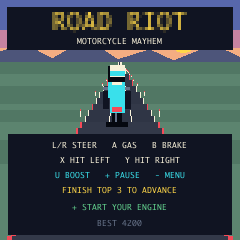
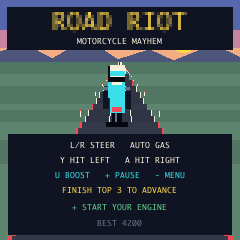
Enable automatic acceleration and map punches to Y and A

Changed region(s): [[0.2042, 0.5833, 0.7875, 0.7], [0.2333, 0.6417, 0.2917, 0.7]]

diff --git a/docs/games/road-riot.html b/docs/games/road-riot.html
@@ -25,22 +25,22 @@
         <div class="detail-panel prose">
           <p class="kicker">Controls</p>
           <table class="controls"><thead><tr><th>Input</th><th>Action</th></tr></thead><tbody>
-            <tr><td>L / R</td><td>Steer</td></tr><tr><td>A</td><td>Hold to accelerate</td></tr>
-            <tr><td>B or D</td><td>Brake</td></tr><tr><td>X</td><td>Strike left</td></tr><tr><td>Y</td><td>Strike right</td></tr>
-            <tr><td>U + A</td><td>Boost while accelerating</td></tr><tr><td>+</td><td>Start, pause, resume or continue</td></tr>
+            <tr><td>L / R</td><td>Steer left / right</td></tr><tr><td>Automatic</td><td>Accelerate without holding a button</td></tr>
+            <tr><td>B or D</td><td>Brake; release to accelerate again</td></tr><tr><td>Y</td><td>Strike left</td></tr><tr><td>A</td><td>Strike right</td></tr>
+            <tr><td>U</td><td>Boost</td></tr><tr><td>+</td><td>Start, pause, resume or continue</td></tr>
             <tr><td>−</td><td>Return to the arcade</td></tr>
           </tbody></table>
         </div>
         <div class="detail-panel prose">
           <p class="kicker">Race and survive</p>
           <ul class="feature-list"><li>Finish in the top three of six to advance. Complete Sunset Strip, Canyon Run and Midnight Coast to win the tour.</li>
-            <li>The three-second countdown gives you time to find the accelerator.</li><li>Cars, oil, collisions and rival punches damage your bike. Riding on the verge slows you down and wears it out.</li>
+            <li>The bike accelerates automatically after the three-second countdown, leaving you free to steer and punch.</li><li>Cars, oil, collisions and rival punches damage your bike. Riding on the verge slows you down and wears it out.</li>
             <li>A crash briefly protects you from further hits. Rivals flash a yellow exclamation mark before attacking.</li>
             <li>The four controller LEDs show bike condition. The HUD tracks position, speed, distance, condition, boost and knockouts.</li></ul>
         </div>
         <div class="detail-panel prose">
           <p class="kicker">Fight for a gap</p>
-          <ul class="feature-list"><li>Get alongside a rival and tap X or Y on their side. Release and tap again for another punch; holding does not auto-attack.</li>
+          <ul class="feature-list"><li>Get alongside a rival and tap Y to strike left or A to strike right. Release and tap again for another punch; holding does not auto-attack.</li>
             <li>Two hits knock a rider down temporarily. Each hit earns 75 points; a knockout adds another 225 and restores 30 boost.</li>
             <li>Close traffic passes earn 40 points. Your finishing position and remaining bike condition add a finish bonus.</li>
             <li>Boost recharges when idle. After emptying the tank, release U before boosting again.</li>
@@ -51,7 +51,7 @@
     <section class="section">
       <div class="section-heading"><div><p class="kicker">The tour</p><h2>From sunset to midnight</h2></div><p>Original procedural graphics; no sprites, ROMs or other external game assets required. These previews use the game's actual drawing functions with a host font substitute.</p></div>
       <div class="game-grid">
-        <article class="card"><img class="card-image" src="../images/road-riot-title.png" alt="Road Riot title screen and control guide"><div class="card-body"><h3>Start your engine</h3><p>Hold A after the countdown and use the whole road to find a way through.</p></div></article>
+        <article class="card"><img class="card-image" src="../images/road-riot-title.png" alt="Road Riot title screen and control guide"><div class="card-body"><h3>Start your engine</h3><p>Accelerate automatically after the countdown and use the whole road to find a way through.</p></div></article>
         <article class="card"><img class="card-image" src="../images/road-riot-course-2.png" alt="Canyon Run with desert colours"><div class="card-body"><h3>Canyon Run</h3><p>A longer desert stage with quicker rivals.</p></div></article>
         <article class="card"><img class="card-image" src="../images/road-riot-course-3.png" alt="Midnight Coast with a moonlit sky"><div class="card-body"><h3>Midnight Coast</h3><p>The longest, fastest race ends the tour under the moon.</p></div></article>
         <article class="card"><img class="card-image" src="../images/road-riot-finish.png" alt="Road Riot tour completion and score screen"><div class="card-body"><h3>Claim your result</h3><p>Your finishing place, knockouts and bike condition contribute to a lasting high score.</p></div></article>

diff --git a/tools/check_road_riot.py b/tools/check_road_riot.py
@@ -101,33 +101,43 @@ class GameplayChecks(unittest.TestCase):
     def test_countdown_freezes_the_entire_race(self):
         self.race["countdown"] = 3
         positions = [r["z"] for r in self.race["rivals"]]
-        self.step(2, Controls("A", "U"))
+        self.step(2, Controls("U"))
         self.assertEqual(self.race["distance"], 0)
         self.assertEqual(positions, [r["z"] for r in self.race["rivals"]])
         self.assertEqual(self.race["boost"], 100)
 
-    def test_acceleration_brake_and_no_throttle(self):
+    def test_automatic_acceleration_brake_and_recovery(self):
         self.race["rivals"] = []
         self.race["traffic"] = []
-        self.step(2, Controls("A"))
+        self.step(2)
         speed = self.race["speed"]
         self.assertGreater(speed, 40)
-        self.step(0.4, Controls("B", "A", "U"))
+        self.step(0.4, Controls("B", "U"))
         self.assertLess(self.race["speed"], speed - 20)
         self.assertFalse(self.race["boosting"])
-        self.race["speed"] = 0
-        self.step(0.4, Controls("U"))
+        self.step(1, Controls("B"))
         self.assertEqual(self.race["speed"], 0)
+        self.step(1)
+        self.assertGreater(self.race["speed"], 20)
 
     def test_steering_and_road_verge_cost(self):
         self.race["rivals"] = []
         self.race["traffic"] = []
-        self.step(2, Controls("L", "A"))
+        self.step(2, Controls("L"))
         self.assertLess(self.race["x"], -0.98)
         self.assertLess(self.race["health"], 100)
         self.assertLessEqual(abs(self.race["x"]), 1.35)
-        self.step(1, Controls("R", "A"))
+        self.step(1, Controls("R"))
         self.assertGreater(self.race["x"], -0.98)
+
+    def test_punch_buttons_do_not_also_steer(self):
+        self.race["rivals"] = []
+        self.race["traffic"] = []
+        self.game.update_race(self.race, Controls("Y", "A"), self.audio, 0.02)
+        self.assertEqual(self.race["x"], 0)
+        self.assertGreater(self.race["speed"], 0)
+        self.game.update_race(self.race, Controls("R"), self.audio, 0.02)
+        self.assertGreater(self.race["x"], 0)
 
     def test_attack_side_cooldown_and_knockout(self):
         rival = self.race["rivals"][0]
@@ -155,7 +165,7 @@ class GameplayChecks(unittest.TestCase):
         self.assertLess(self.race["speed"], 30)
         self.race["rivals"] = []
         self.race["traffic"] = []
-        self.step(1.6, Controls("A"))
+        self.step(1.6)
         self.assertEqual(self.race["crash"], 0)
         self.assertEqual(self.race["invulnerable"], 0)
         self.assertGreater(self.race["speed"], 30)
@@ -166,7 +176,7 @@ class GameplayChecks(unittest.TestCase):
         car = self.game.new_traffic(3.1, 0)
         car.update(x=0, speed=0)
         self.race["traffic"] = [car]
-        self.game.update_race(self.race, Controls("A", "U"), self.audio, 0.1)
+        self.game.update_race(self.race, Controls("U"), self.audio, 0.1)
         self.assertEqual(self.race["health"], 76)
 
     def test_near_miss_scores_once_and_traffic_recycles_ahead(self):
@@ -175,7 +185,7 @@ class GameplayChecks(unittest.TestCase):
         car.update(x=0.4, speed=0)
         self.race["traffic"] = [car]
         self.race["speed"] = 60
-        self.step(1, Controls("A"))
+        self.step(1)
         self.assertEqual(self.race["score"], 40)
         self.assertGreater(car["z"], self.race["distance"] + 200)
 
@@ -196,12 +206,12 @@ class GameplayChecks(unittest.TestCase):
         self.race["traffic"] = []
         self.race["boost"] = 1
         self.race["speed"] = 62
-        self.step(0.2, Controls("A", "U"))
+        self.step(0.2, Controls("U"))
         self.assertFalse(self.race["boosting"])
         self.assertFalse(self.race["boost_ready"])
         self.assertGreater(self.race["boost"], 0)
-        self.step(0.2, Controls("A"))
-        self.step(0.02, Controls("A", "U"))
+        self.step(0.2)
+        self.step(0.02, Controls("U"))
         self.assertTrue(self.race["boosting"])
 
     def test_qualification_failure_wreck_and_finished_race_freeze(self):
@@ -210,10 +220,10 @@ class GameplayChecks(unittest.TestCase):
             race.update(countdown=0, distance=race["length"] - 0.1, speed=60)
             for index, rival in enumerate(race["rivals"]):
                 rival["z"] = race["length"] + 30 if index < position - 1 else 0
-            self.game.update_race(race, Controls("A"), self.audio, 0.02)
+            self.game.update_race(race, Controls(), self.audio, 0.02)
             self.assertEqual(race["result"], expected)
             score = race["score"]
-            self.game.update_race(race, Controls("A"), self.audio, 0.02)
+            self.game.update_race(race, Controls(), self.audio, 0.02)
             self.assertEqual(race["score"], score)
         self.race["health"] = 0
         self.step(0.02)
@@ -255,7 +265,7 @@ class GameplayChecks(unittest.TestCase):
                           if -8 < car["z"] - self.race["distance"] < 55]
                 target = min(options, key=lambda x: abs(x - self.race["x"]) * 0.1 +
                              sum(max(0, 0.48 - abs(x - car["x"])) * 10 for car in danger))
-                keys = ["A"]
+                keys = []
                 if self.race["clock"] % 6 < 3:
                     keys.append("U")
                 if abs(target - self.race["x"]) > 0.04:

diff --git a/road_riot.py b/road_riot.py
@@ -277,13 +277,12 @@ def update_race(race, controls, audio, dt):
     for key in ("attack", "invulnerable", "crash", "message_time"):
         race[key] = max(0, race[key] - dt)
     top_speed = 62 + race["stage"] * 3
-    throttle = controls.held("A")
     brake = controls.held("B") or controls.held("D")
     if not controls.held("U"):
         race["boost_ready"] = True
     if race["boost"] <= 0:
         race["boost_ready"] = False
-    boosting = (controls.held("U") and throttle and not brake
+    boosting = (controls.held("U") and not brake
                 and race["boost"] > 0 and race["boost_ready"]
                 and race["crash"] <= 0)
     race["boosting"] = boosting
@@ -293,10 +292,8 @@ def update_race(race, controls, audio, dt):
         race["speed"] = max(0, race["speed"] - 45 * dt)
     elif brake:
         race["speed"] = max(0, race["speed"] - 65 * dt)
-    elif throttle:
-        race["speed"] = min(target_speed, race["speed"] + 27 * dt)
     else:
-        race["speed"] = max(0, race["speed"] - 14 * dt)
+        race["speed"] = min(target_speed, race["speed"] + 27 * dt)
     steering = int(controls.held("R")) - int(controls.held("L"))
     race["lean"] = steering
     if race["crash"] <= 0:
@@ -517,7 +514,7 @@ def draw_race(race):
     if race["countdown"] > 0:
         rect(51, 91, 138, 55, INK)
         centre(str(int(math.ceil(race["countdown"]))), 98, YELLOW, 4)
-        centre("HOLD A TO ACCELERATE", 136, WHITE)
+        centre("AUTO GAS - GET READY!", 136, WHITE)
     elif race["clock"] < 0.75:
         centre("GO!", 103, GREEN, 4)
 
@@ -537,8 +534,8 @@ def draw_title(race, high):
     centre("ROAD RIOT", 12, YELLOW, 3)
     centre("MOTORCYCLE MAYHEM", 38, WHITE)
     rect(8, 134, 224, 101, INK)
-    centre("L/R STEER   A GAS   B BRAKE", 142, WHITE)
-    centre("X HIT LEFT   Y HIT RIGHT", 157, WHITE)
+    centre("L/R STEER   AUTO GAS", 142, WHITE)
+    centre("Y HIT LEFT   A HIT RIGHT", 157, WHITE)
     centre("U BOOST   + PAUSE   - MENU", 172, CYAN)
     centre("FINISH TOP 3 TO ADVANCE", 187, YELLOW)
     centre("+ START YOUR ENGINE", 204, GREEN)
@@ -604,9 +601,9 @@ def main():
                     state = "race"
             if state == "race":
                 # Combat is edge-triggered; holding a button cannot auto-hit.
-                if controller.pressed("X"):
+                if controller.pressed("Y"):
                     attack(race, -1, audio)
-                elif controller.pressed("Y"):
+                elif controller.pressed("A"):
                     attack(race, 1, audio)
                 remaining = dt
                 while remaining > 0:

diff --git a/README.md b/README.md
@@ -74,8 +74,9 @@ other demo scripts can remain on the board without appearing as arcade games.
 
 ### Road Riot controls
 
-`L` / `R` steer, `A` accelerates, `B` (or `D`) brakes, `X` strikes left,
-`Y` strikes right and `U` boosts while accelerating. `+` starts, pauses or
+The bike accelerates automatically. `L` steers left, `R` steers right,
+`Y` strikes left, `A` strikes right, `B` (or `D`) brakes and `U` boosts.
+Release the brake to accelerate again. `+` starts, pauses or
 continues; `-` returns to the arcade. Finish in the top three to unlock the next
 course. Two hits knock a rival down and refill some boost. Avoid cars, oil and
 the verges to protect your bike; the pad LEDs show its remaining condition.
